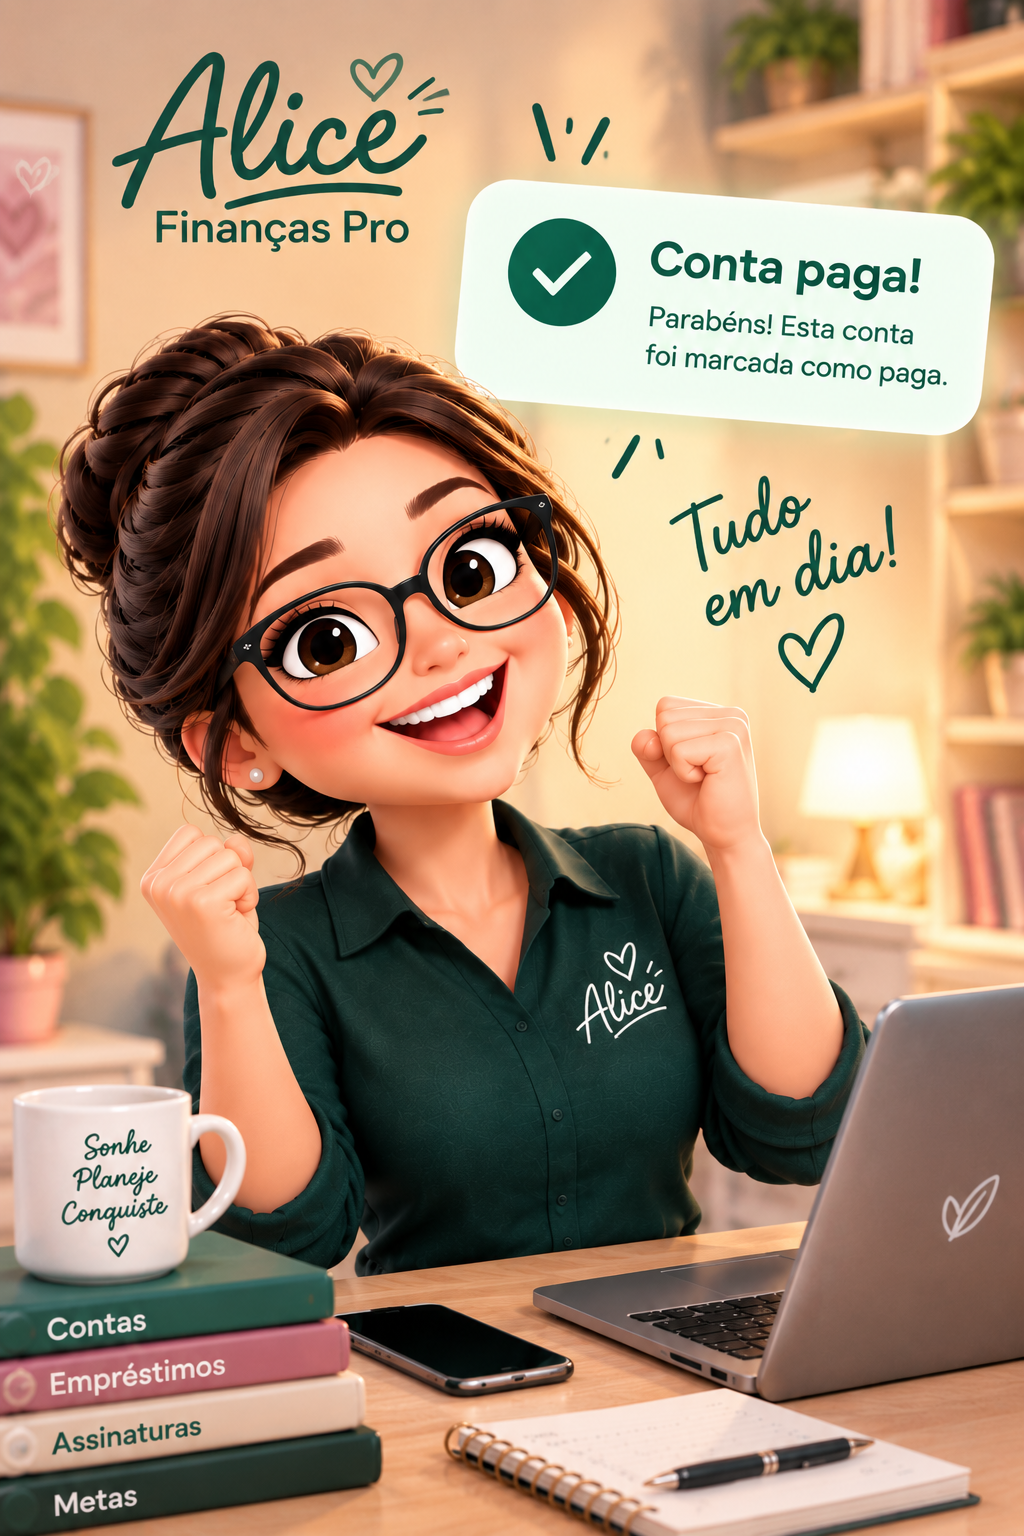
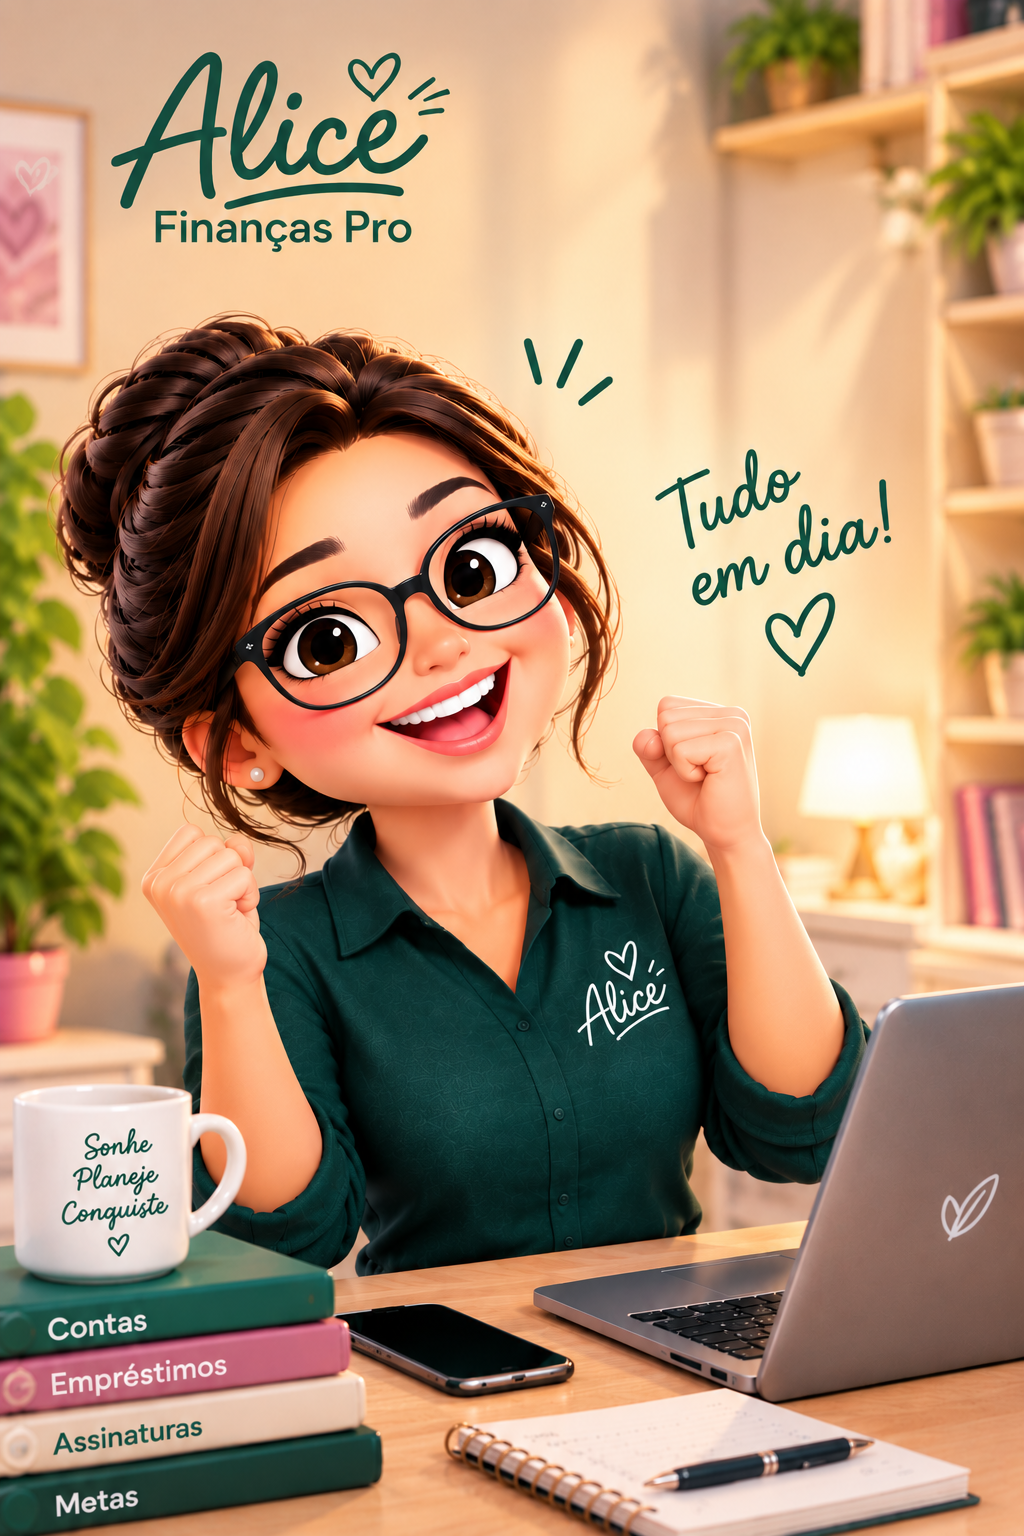
Revisao 19 - Splash Screen ajuste de imagema

diff --git a/app.js b/app.js
@@ -160,7 +160,7 @@ async function loadData(){const [c,l,p,sub]=await Promise.all([sb.from('contas')
 function renderLogin(errorMsg=''){const app=document.querySelector('#app');app.innerHTML=`<div class="login-page"><div class="login-glow login-glow-a"></div><div class="login-glow login-glow-b"></div><div class="login-card"><div class="login-brand"><div class="brand-mark">${icon('trending-up',25)}</div><div><strong>Finanças <span>Pro</span></strong><small>Seu dinheiro no controle</small></div></div><div class="login-heading"><span class="eyebrow">Acesso seguro</span><h1>Bem-vindo de volta</h1><p>Entre para acompanhar suas contas, empréstimos e assinaturas.</p></div><form id="loginForm" class="login-form"><div class="field"><label for="loginEmail">E-mail</label><div class="input-icon">${icon('mail',18)}<input id="loginEmail" name="email" type="email" autocomplete="email" placeholder="seu@email.com" required></div></div><div class="field"><label for="loginPassword">Senha</label><div class="input-icon">${icon('lock-keyhole',18)}<input id="loginPassword" name="password" type="password" autocomplete="current-password" placeholder="Digite sua senha" required><button type="button" class="password-toggle" id="togglePassword" aria-label="Mostrar senha">${icon('eye',18)}</button></div></div><div id="loginError" class="login-error" ${errorMsg?'':'hidden'}>${esc(errorMsg)}</div><button class="btn btn-primary login-submit" type="submit" id="loginSubmit">${icon('log-in',18)} Entrar</button></form><div class="login-footer">Seus dados ficam protegidos pela autenticação do Supabase.</div></div></div>`;refreshIcons();const form=$('#loginForm'),email=$('#loginEmail'),password=$('#loginPassword'),error=$('#loginError'),submit=$('#loginSubmit');$('#togglePassword')?.addEventListener('click',()=>{const show=password.type==='password';password.type=show?'text':'password';$('#togglePassword').innerHTML=icon(show?'eye-off':'eye',18);refreshIcons()});form?.addEventListener('submit',async e=>{e.preventDefault();error.hidden=true;error.textContent='';submit.disabled=true;submit.innerHTML=`${icon('loader-circle',18)} Entrando...`;refreshIcons();const {error:q}=await sb.auth.signInWithPassword({email:email.value.trim(),password:password.value});if(q){error.textContent=q.message.includes('Invalid login credentials')?'E-mail ou senha incorretos.':q.message;error.hidden=false;submit.disabled=false;submit.innerHTML=`${icon('log-in',18)} Entrar`;refreshIcons();return}submit.innerHTML=`${icon('check',18)} Acesso autorizado`;refreshIcons()})}
 function renderSplash(){
  const app=document.querySelector('#app');
- app.innerHTML=`<section class="splash-page" aria-label="Carregando Finanças Pro"><div class="splash-orb splash-orb-a"></div><div class="splash-orb splash-orb-b"></div><div class="splash-content"><div class="splash-brand"><span class="splash-brand-mark">✦</span><div><strong>Alice <span>Finanças Pro</span></strong><small>Seu dinheiro no controle</small></div></div><div class="splash-art"><img src="assets/alice-preview.png" alt="Alice, mascote do Finanças Pro"></div><div class="splash-message">Organizando seu mundo financeiro<span class="splash-dots"><i></i><i></i><i></i></span></div><div class="splash-loader" aria-hidden="true"><span></span></div></div></section>`;
+ app.innerHTML=`<section class="splash-page" aria-label="Carregando Finanças Pro"><div class="splash-orb splash-orb-a"></div><div class="splash-orb splash-orb-b"></div><div class="splash-content"><div class="splash-art"><img src="assets/alice-preview.png" alt="Alice, mascote do Finanças Pro"></div><div class="splash-loader" aria-hidden="true"><span></span></div></div></section>`;
  const enter=()=>{if(enter.done)return;enter.done=true;clearTimeout(timer);render()};
  const timer=setTimeout(enter,2800);
 }

diff --git a/styles.css b/styles.css
@@ -130,3 +130,6 @@
 .splash-loader{position:absolute;bottom:calc(28px + env(safe-area-inset-bottom));left:50%;transform:translateX(-50%);width:calc(100% - 72px);max-width:320px;background:rgba(255,255,255,.6)}
 .splash-orb{display:none}
 @media(min-width:521px){.splash-content{max-width:none}.splash-brand{width:min(520px,calc(100% - 64px))}.splash-message{width:min(420px,calc(100% - 64px))}}
+
+/* Splash: sem textos sobre a imagem */
+.splash-brand,.splash-message{display:none!important}
